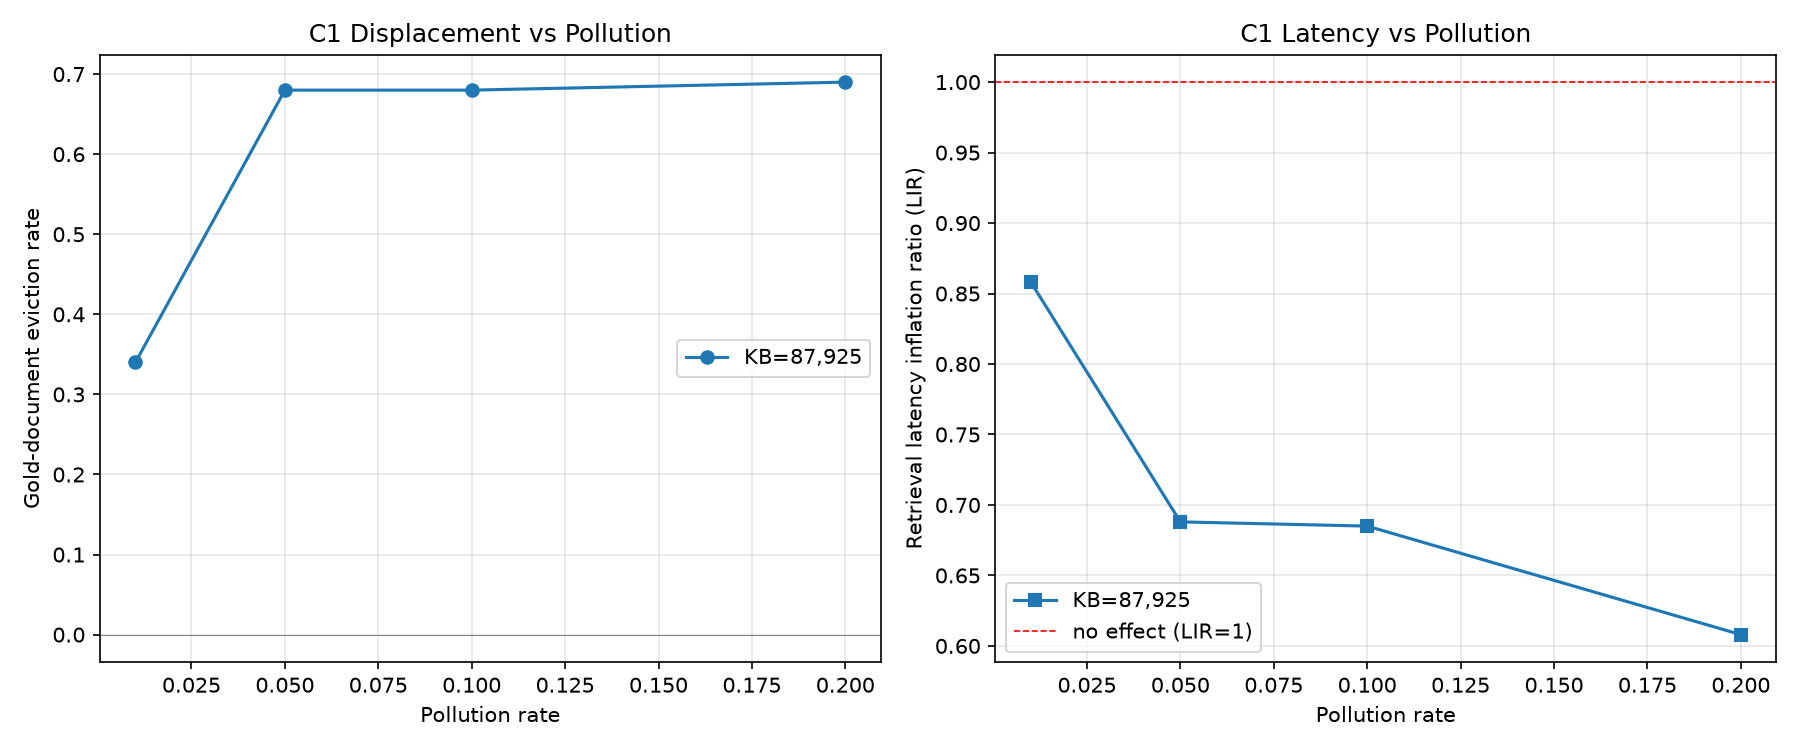
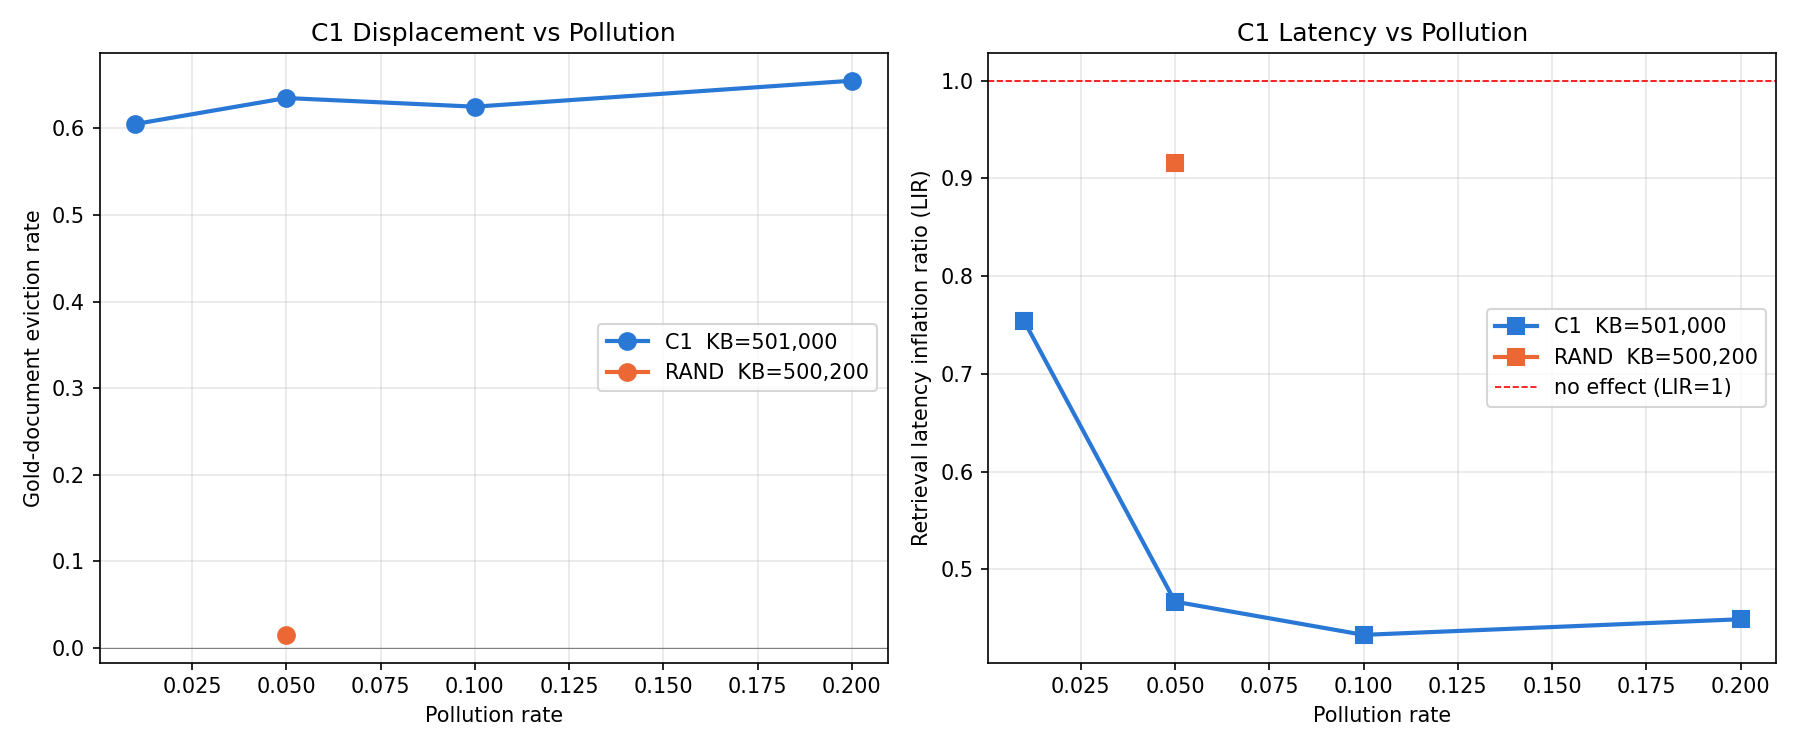
C1: 501k-corpus results + RAND control, category-aware collection
Replaces the superseded 87,925-doc C1 summary with the 501,000-doc run and
adds the volume-matched RAND control row. collect_c1.py now keys grouping
and plotting on attack category recovered from the run directory name, so
the control plots as its own series instead of an unlabelled KB size.

diff --git a/scripts/collect_c1.py b/scripts/collect_c1.py
@@ -31,7 +31,12 @@ logger = logging.getLogger(__name__)
 
 
 def find_reports(results_dir: Path) -> list[dict]:
-    """Load every c1_latency*.json under results_dir."""
+    """Load every c1_latency*.json under results_dir.
+
+    The attack category is recovered from the run directory name
+    (``<model-pair>_<CATEGORY>``) because the report JSON does not record it.
+    Without it, the RAND ablation baseline would be averaged into the C1 curve.
+    """
     pattern = str(results_dir / "**" / "c1_latency*.json")
     reports = []
     for path in glob.glob(pattern, recursive=True):
@@ -39,6 +44,8 @@ def find_reports(results_dir: Path) -> list[dict]:
             with open(path) as f:
                 data = json.load(f)
             data["_path"] = path
+            run_dir = Path(path).parent.name
+            data["category"] = run_dir.rsplit("_", 1)[-1] if "_" in run_dir else run_dir
             reports.append(data)
         except Exception as exc:
             logger.warning(f"Skipping {path}: {exc}")
@@ -46,14 +53,18 @@ def find_reports(results_dir: Path) -> list[dict]:
 
 
 def aggregate(reports: list[dict]) -> list[dict]:
-    """Group by (kb_size, pollution_rate), averaging repeated runs."""
+    """Group by (category, kb_size, pollution_rate), averaging repeated runs.
+
+    Category is part of the key: C1 and its RAND control share a corpus size and
+    pollution rate, so grouping without it silently averages attack and control.
+    """
     groups: dict[tuple, list[dict]] = defaultdict(list)
     for r in reports:
-        key = (r.get("kb_size"), r.get("pollution_rate"))
+        key = (r.get("category"), r.get("kb_size"), r.get("pollution_rate"))
         groups[key].append(r)
 
     rows = []
-    for (kb_size, pr), runs in groups.items():
+    for (category, kb_size, pr), runs in groups.items():
         def col(name):
             vals = [x[name] for x in runs if name in x and x[name] is not None]
             return vals
@@ -63,6 +74,7 @@ def aggregate(reports: list[dict]) -> list[dict]:
         adv_vals = col("mean_adversarial_in_topk")
 
         rows.append({
+            "category": category,
             "kb_size": kb_size,
             "pollution_rate": pr,
             "n_runs": len(runs),
@@ -73,7 +85,8 @@ def aggregate(reports: list[dict]) -> list[dict]:
             "adv_in_topk": round(mean(adv_vals), 3) if adv_vals else None,
         })
 
-    rows.sort(key=lambda x: ((x["kb_size"] or 0), (x["pollution_rate"] or 0)))
+    rows.sort(key=lambda x: (x["category"] or "", (x["kb_size"] or 0),
+                             (x["pollution_rate"] or 0)))
     return rows
 
 
@@ -83,16 +96,16 @@ def print_table(rows: list[dict]) -> None:
         return "n/a" if v is None else str(v)
 
     print()
-    print("=" * 92)
-    print(f"{'KB size':>9} {'Pollut.':>8} {'Runs':>5} {'AdvDocs':>8} "
+    print("=" * 100)
+    print(f"{'Attack':>7} {'KB size':>9} {'Pollut.':>8} {'Runs':>5} {'AdvDocs':>8} "
           f"{'LIR':>7} {'±std':>6} {'Eviction':>9} {'Adv@k':>7}")
-    print("-" * 92)
+    print("-" * 100)
     for r in rows:
-        print(f"{s(r['kb_size']):>9} {s(r['pollution_rate']):>8} {s(r['n_runs']):>5} "
-              f"{s(r['adversarial_docs']):>8} "
+        print(f"{s(r['category']):>7} {s(r['kb_size']):>9} {s(r['pollution_rate']):>8} "
+              f"{s(r['n_runs']):>5} {s(r['adversarial_docs']):>8} "
               f"{s(r['lir_mean']):>7} {s(r['lir_std']):>6} "
               f"{s(r['eviction_rate']):>9} {s(r['adv_in_topk']):>7}")
-    print("=" * 92)
+    print("=" * 100)
     print()
 
 
@@ -113,14 +126,20 @@ def make_plot(rows: list[dict], out_path: Path) -> None:
         logger.warning("matplotlib not installed; skipping plot. pip install matplotlib")
         return
 
-    # One line per KB size, x = pollution rate
-    by_kb: dict[int, list[dict]] = defaultdict(list)
+    # One series per (category, KB size), x = pollution rate. Category must be in
+    # the key so the RAND control plots as its own series, not as part of C1.
+    by_series: dict[tuple, list[dict]] = defaultdict(list)
     for r in rows:
-        by_kb[r["kb_size"]].append(r)
+        by_series[(r["category"], r["kb_size"])].append(r)
+
+    # Validated categorical slots (light surface): C1 = blue, RAND = orange.
+    colors = {"C1": "#2a78d6", "RAND": "#eb6834"}
+    fallback = ["#1baf7a", "#eda100", "#e87ba4"]
 
     fig, (ax1, ax2) = plt.subplots(1, 2, figsize=(12, 5))
 
-    for kb_size, group in sorted(by_kb.items(), key=lambda kv: kv[0] or 0):
+    for i, ((category, kb_size), group) in enumerate(
+            sorted(by_series.items(), key=lambda kv: (kv[0][0] or "", kv[0][1] or 0))):
         # Keep only rows with the fields the plot needs
         group = [g for g in group
                  if g["pollution_rate"] is not None
@@ -132,9 +151,13 @@ def make_plot(rows: list[dict], out_path: Path) -> None:
         prs = [g["pollution_rate"] for g in group]
         evic = [g["eviction_rate"] for g in group]
         lir = [g["lir_mean"] for g in group]
-        label = f"KB={kb_size:,}" if kb_size else "KB=?"
-        ax1.plot(prs, evic, marker="o", label=label)
-        ax2.plot(prs, lir, marker="s", label=label)
+        kb_label = f"KB={kb_size:,}" if kb_size else "KB=?"
+        label = f"{category}  {kb_label}"
+        color = colors.get(category, fallback[i % len(fallback)])
+        ax1.plot(prs, evic, marker="o", markersize=8, linewidth=2,
+                 color=color, label=label)
+        ax2.plot(prs, lir, marker="s", markersize=8, linewidth=2,
+                 color=color, label=label)
 
     ax1.set_xlabel("Pollution rate")
     ax1.set_ylabel("Gold-document eviction rate")
